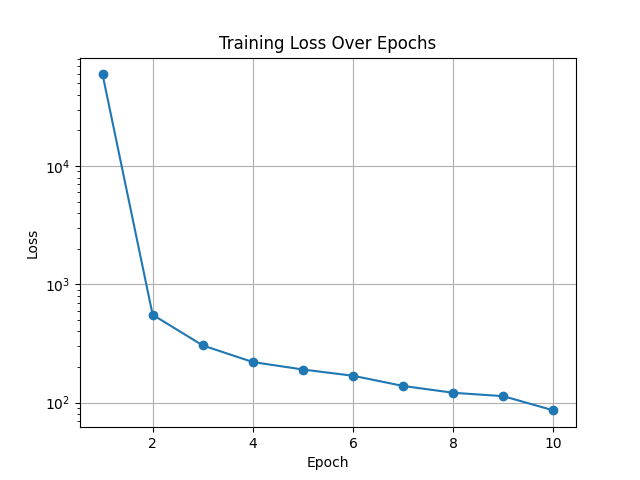
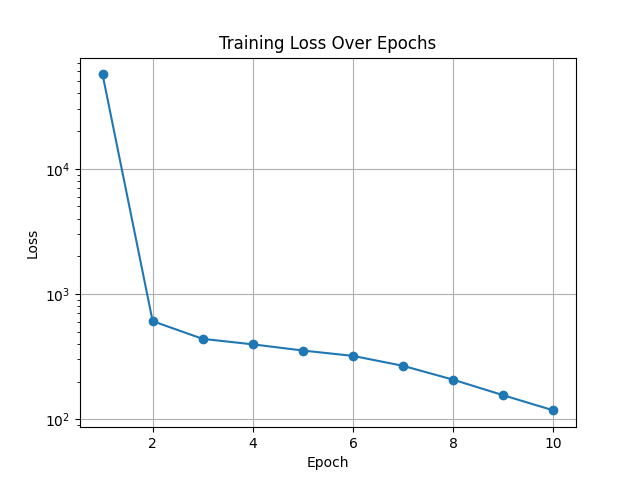
small tweaks

diff --git a/simple_lstm.py b/simple_lstm.py
@@ -4,14 +4,15 @@ import torch.nn as nn
 from hyper_parameters import hidden_size, batch_size
 from device import device
 
-class LSTM(nn.Module):
+class SimpleLSTM(nn.Module):
     def __init__(self, hidden_size: int, batch_size: int = 1):
-        super(LSTM, self).__init__()
+        super(SimpleLSTM, self).__init__()
         self.input_size = 3
         self.output_size = 1
+        self.num_layers = 1
         self.batch_size = batch_size
         self.hidden_size = hidden_size
-        self.lstm = nn.LSTM(self.input_size, self.hidden_size, batch_first=True)
+        self.lstm = nn.LSTM(self.input_size, self.hidden_size, self.num_layers, batch_first=True)
         self.fc = nn.Linear(self.hidden_size, self.output_size)
 
     def forward(self, x):
@@ -21,5 +22,5 @@ class LSTM(nn.Module):
         out = out[:, -1, :]
         return self.fc(out)
 
-model = LSTM(hidden_size, batch_size)
+model = SimpleLSTM(hidden_size, batch_size)
 model.to(device)

diff --git a/training.py b/training.py
@@ -4,7 +4,7 @@ import torch.utils.data as data
 import numpy as np
 import matplotlib
 import matplotlib.pyplot as plt
-from model import model
+from simple_lstm import model
 from hyper_parameters import epochs, learning_rate, seq_len, batch_size
 from sequenizer import create_sequences
 from data import train_data

diff --git a/evaluate.py b/evaluate.py
@@ -4,7 +4,7 @@ import torch
 import torch.nn as nn
 import torch.utils.data as data
 import numpy as np
-from model import model
+from simple_lstm import model
 from hyper_parameters import seq_len, batch_size
 from sequenizer import create_sequences
 from data import test_data

diff --git a/hyper_parameters.py b/hyper_parameters.py
@@ -3,4 +3,4 @@ hidden_size = 50
 epochs = 10
 learning_rate = 0.001
 seq_len = 4
-batch_size = 32
+batch_size = 16
